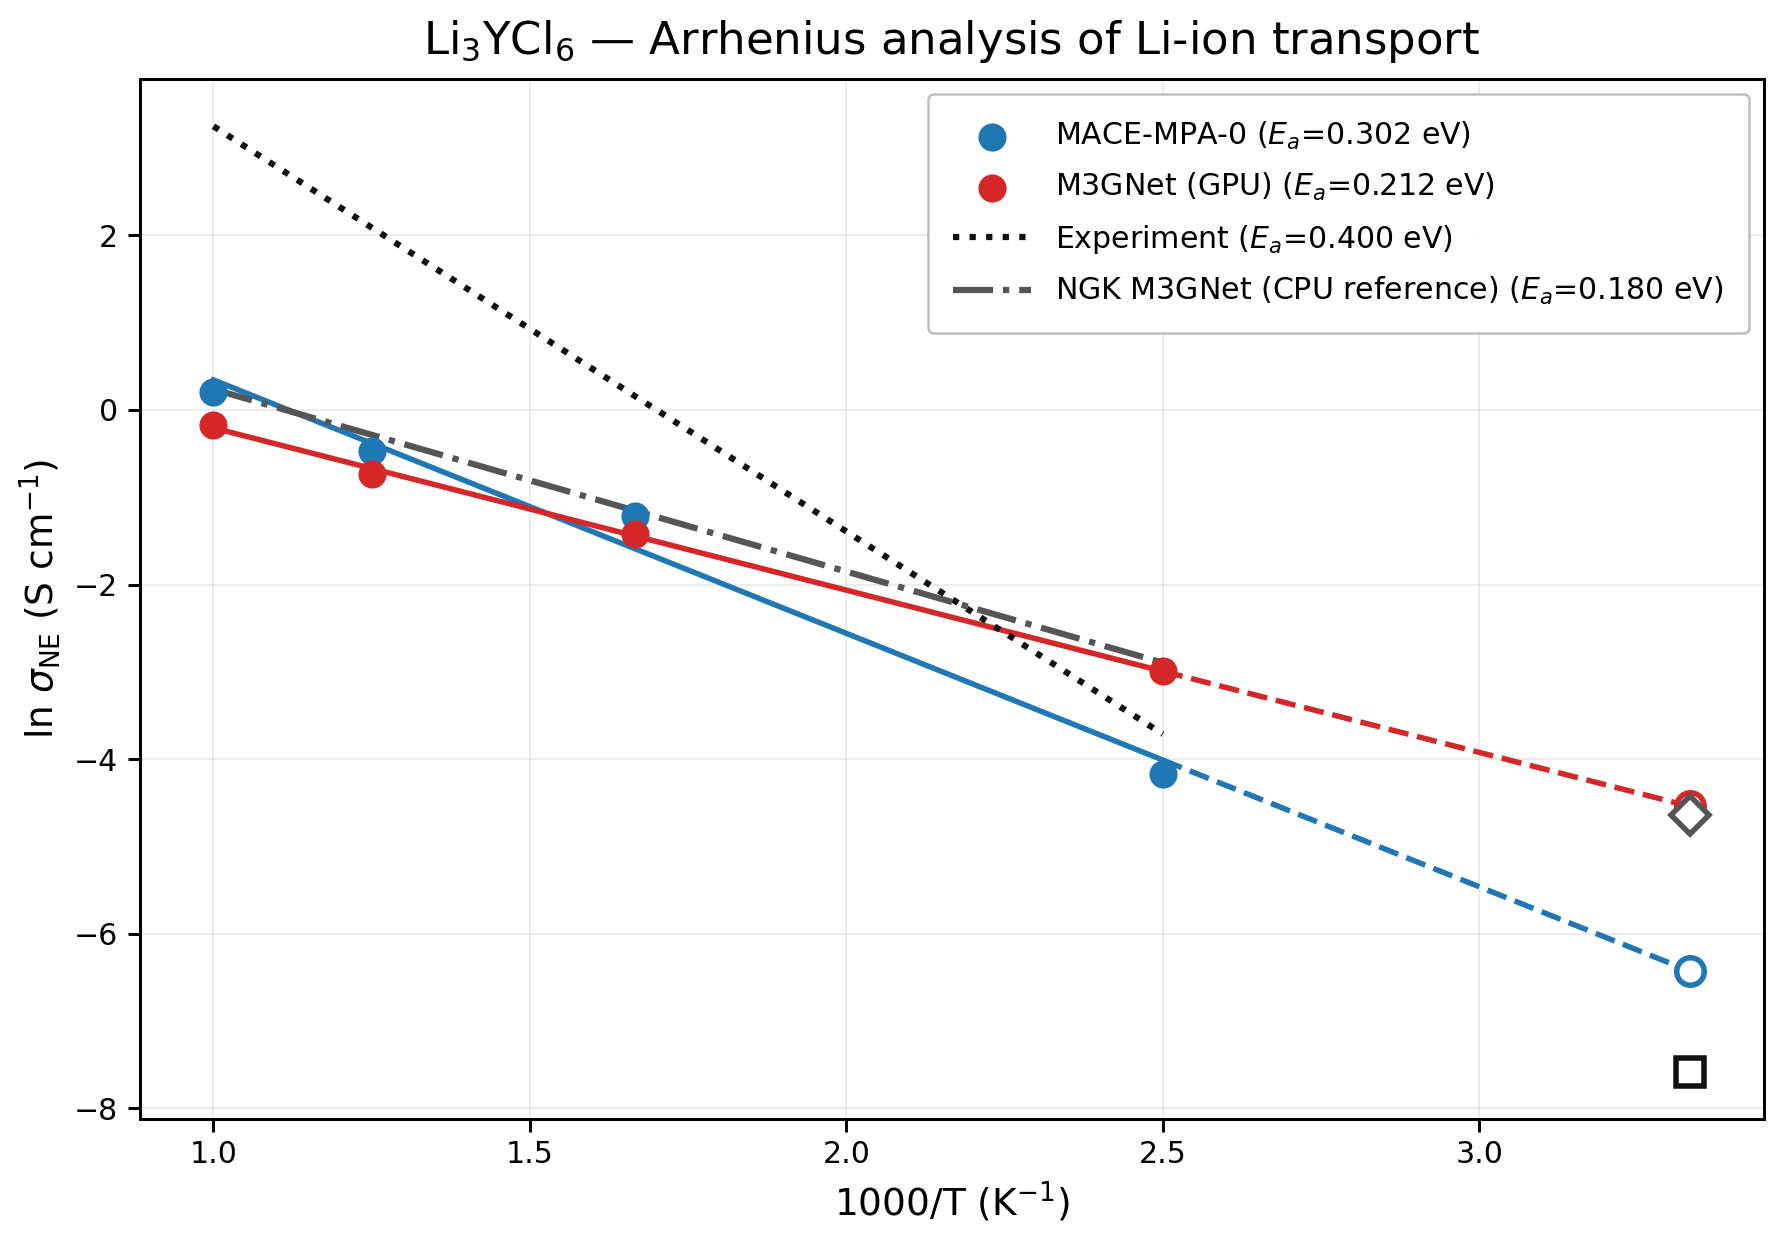
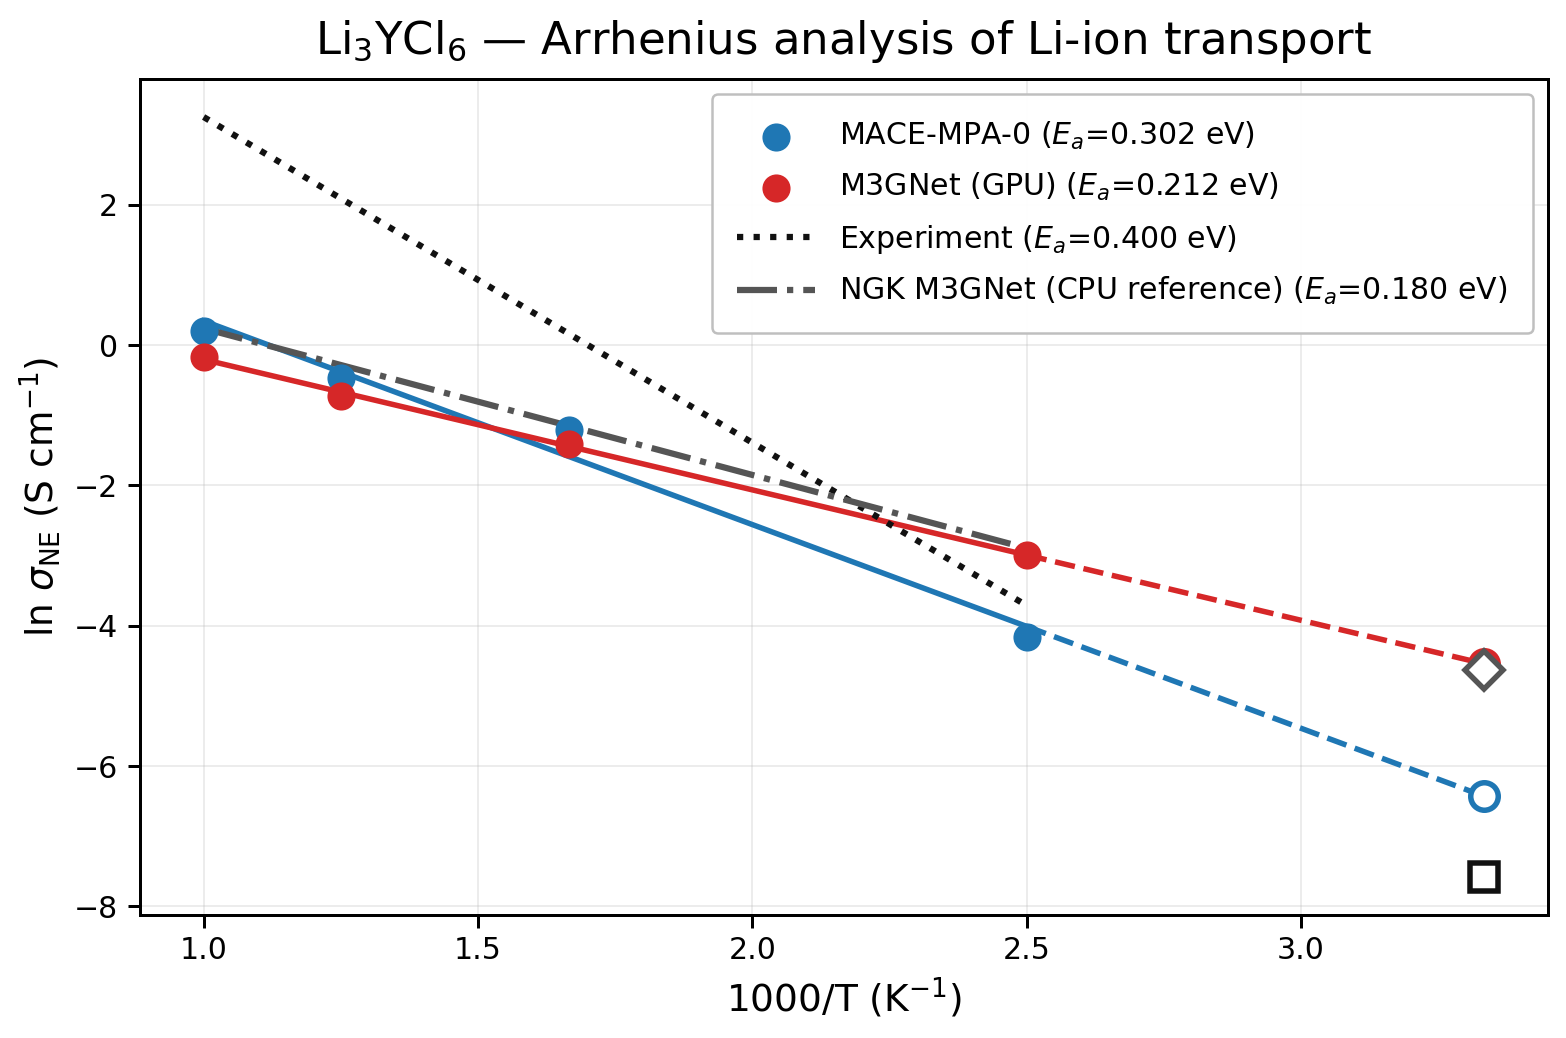
Match Arrhenius canvas to MSD figures

diff --git a/src/li_research/analysis/arrhenius/plot_li3ycl6_arrhenius_midterm.py b/src/li_research/analysis/arrhenius/plot_li3ycl6_arrhenius_midterm.py
@@ -17,7 +17,7 @@ models = [
     ("M3GNet (GPU)", np.array([0.0499968539, 0.2422683654, 0.4811228915, 0.8433514808]), 0.212, "#d62728"),
 ]
 
-fig, ax = plt.subplots(figsize=(10, 7), dpi=180)
+fig, ax = plt.subplots(figsize=(8.8, 5.8667), dpi=180)
 for name, sigma, ea, color in models:
     y = np.log(sigma)
     slope, intercept = np.polyfit(x, y, 1)
@@ -57,7 +57,7 @@ for out in OUTS:
 
 # Keep the two-model midterm comparison used in the presentation README,
 # using exactly the same typography and axis style as the three-model figure.
-fig2, ax2 = plt.subplots(figsize=(10, 7), dpi=180)
+fig2, ax2 = plt.subplots(figsize=(8.8, 5.8667), dpi=180)
 for name, sigma, ea, color in (models[0], models[2]):
     y = np.log(sigma)
     slope, intercept = np.polyfit(x, y, 1)
